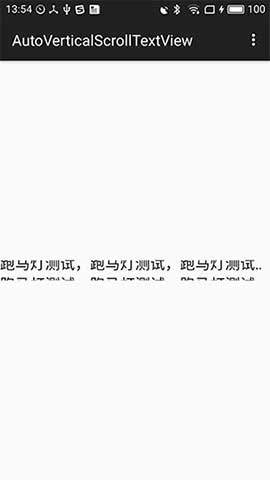
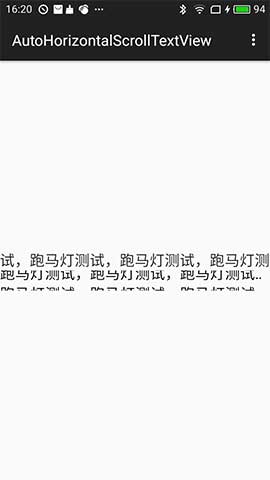
无

diff --git a/App/src/main/java/com/custom/view/activity/view/AutoScrollTextViewActivity.java b/App/src/main/java/com/custom/view/activity/view/AutoScrollTextViewActivity.java
@@ -7,30 +7,35 @@ import android.os.SystemClock;
 
 import com.custom.view.R;
 import com.custom.view.activity.base.BaseActivity;
-import com.custom.view.view.AutoVerticalScrollTextView;
-import com.custom.view.view.UnlockView;
+import com.custom.view.view.autoscrollview.AutoHorizontalScrollTextView;
+import com.custom.view.view.autoscrollview.AutoVerticalScrollTextView;
 
-public class AutoVerticalScrollTextViewActivity extends BaseActivity {
+public class AutoScrollTextViewActivity extends BaseActivity {
+
+    private String value = "跑马灯测试，跑马灯测试，跑马灯测试，跑马灯测试，跑马灯测试，跑马灯测试";
 
     private AutoVerticalScrollTextView autoVerticalScrollTextView;
 
-    private String[] value = {"跑马灯测试，跑马灯测试，跑马灯测试，跑马灯测试，跑马灯测试，跑马灯测试"};
+    private String[] values = {"跑马灯测试，跑马灯测试，跑马灯测试，跑马灯测试，跑马灯测试，跑马灯测试"};
 
     private boolean isRunning = true;
 
     @Override
     protected void onCreate(Bundle savedInstanceState) {
         super.onCreate(savedInstanceState);
-        setContentView(R.layout.activity_autoverticalscrolltextview);
+        setContentView(R.layout.activity_autoscrolltextview);
 
-        setTitle(AutoVerticalScrollTextView.class.getSimpleName());
+        setTitle(AutoHorizontalScrollTextView.class.getSimpleName());
 
         this.init();
     }
 
     private void init() {
+        AutoHorizontalScrollTextView autoHorizontalScrollTextView = (AutoHorizontalScrollTextView) findViewById(R.id.autoHorizontalScrollTextView);
+        autoHorizontalScrollTextView.setText(value);
+
         autoVerticalScrollTextView = (AutoVerticalScrollTextView) findViewById(R.id.autoVerticalScrollTextView);
-        autoVerticalScrollTextView.setText(value[0]);
+        autoVerticalScrollTextView.setText(values[0]);
 
         new Thread() {
             @Override
@@ -52,7 +57,7 @@ public class AutoVerticalScrollTextViewActivity extends BaseActivity {
             if (msg.what == 199) {
                 autoVerticalScrollTextView.next();
                 number++;
-                autoVerticalScrollTextView.setText(value[number % value.length]);
+                autoVerticalScrollTextView.setText(values[number % values.length]);
             }
 
         }

diff --git a/App/src/main/java/com/custom/view/activity/MainActivity.java b/App/src/main/java/com/custom/view/activity/MainActivity.java
@@ -8,8 +8,7 @@ import android.widget.ListView;
 
 import com.custom.view.R;
 import com.custom.view.activity.base.BaseActivity;
-import com.custom.view.activity.view.AutoHorizontalScrollTextViewActivity;
-import com.custom.view.activity.view.AutoVerticalScrollTextViewActivity;
+import com.custom.view.activity.view.AutoScrollTextViewActivity;
 import com.custom.view.activity.view.BadgeViewActivity;
 import com.custom.view.activity.view.BlurringViewActivity;
 import com.custom.view.activity.view.CircleImageViewActivity;
@@ -22,7 +21,6 @@ import com.custom.view.activity.view.StarLevelViewActivity;
 import com.custom.view.activity.view.TimerViewActivity;
 import com.custom.view.activity.view.UnlockViewActivity;
 import com.custom.view.activity.view.WaveViewActivity;
-import com.custom.view.view.radarview.RadarView;
 
 public class MainActivity extends BaseActivity {
 
@@ -36,8 +34,7 @@ public class MainActivity extends BaseActivity {
             new CustomView(R.string.view_title_timerView, R.string.view_introduction_timerView, TimerViewActivity.class),
             new CustomView(R.string.view_title_flowRadioGroup, R.string.view_introduction_flowRadioGroup, FlowRadioGroupActivity.class),
             new CustomView(R.string.view_title_puzzleView, R.string.view_introduction_puzzleView, PuzzleViewActivity.class),
-            new CustomView(R.string.view_title_autoHorizontalScrollTextView, R.string.view_introduction_autoHorizontalScrollTextView, AutoHorizontalScrollTextViewActivity.class),
-            new CustomView(R.string.view_title_autoVerticalScrollTextView, R.string.view_introduction_autoVerticalScrollTextView, AutoVerticalScrollTextViewActivity.class),
+            new CustomView(R.string.view_title_autoHorizontalScrollTextView, R.string.view_introduction_autoHorizontalScrollTextView, AutoScrollTextViewActivity.class),
             new CustomView(R.string.view_title_waveView, R.string.view_introduction_waveView, WaveViewActivity.class),
             new CustomView(R.string.view_title_badgeView, R.string.view_introduction_badgeView, BadgeViewActivity.class),
             new CustomView(R.string.view_title_circleImageView, R.string.view_introduction_circleImageView, CircleImageViewActivity.class),

diff --git a/App/src/main/java/com/custom/view/activity/view/CountTimeProgressViewActivity.java b/App/src/main/java/com/custom/view/activity/view/CountTimeProgressViewActivity.java
@@ -12,7 +12,6 @@ import android.widget.Toast;
 
 import com.custom.view.R;
 import com.custom.view.activity.base.BaseActivity;
-import com.custom.view.view.AutoHorizontalScrollTextView;
 import com.custom.view.view.CountTimeProgressView;
 import com.kyleduo.switchbutton.SwitchButton;
 import com.larswerkman.lobsterpicker.OnColorListener;

diff --git a/App/src/main/java/com/custom/view/activity/view/CircleImageViewActivity.java b/App/src/main/java/com/custom/view/activity/view/CircleImageViewActivity.java
@@ -4,7 +4,6 @@ import android.os.Bundle;
 
 import com.custom.view.R;
 import com.custom.view.activity.base.BaseActivity;
-import com.custom.view.view.AutoHorizontalScrollTextView;
 import com.custom.view.view.CircleImageView;
 
 public class CircleImageViewActivity extends BaseActivity {

diff --git a/App/src/main/java/com/custom/view/activity/view/BlurringViewActivity.java b/App/src/main/java/com/custom/view/activity/view/BlurringViewActivity.java
@@ -11,7 +11,6 @@ import android.widget.ImageView;
 
 import com.custom.view.R;
 import com.custom.view.activity.base.BaseActivity;
-import com.custom.view.view.AutoHorizontalScrollTextView;
 import com.custom.view.view.BlurringView;
 
 import java.util.Random;

diff --git a/App/src/main/java/com/custom/view/view/autoscrollview/AutoVerticalScrollTextView.java b/App/src/main/java/com/custom/view/view/autoscrollview/AutoVerticalScrollTextView.java
@@ -1,4 +1,4 @@
-package com.custom.view.view;
+package com.custom.view.view.autoscrollview;
 
 import android.content.Context;
 import android.graphics.Camera;

diff --git a/App/src/main/java/com/custom/view/view/autoscrollview/AutoHorizontalScrollTextView.java b/App/src/main/java/com/custom/view/view/autoscrollview/AutoHorizontalScrollTextView.java
@@ -1,4 +1,4 @@
-package com.custom.view.view;
+package com.custom.view.view.autoscrollview;
 
 import android.content.Context;
 import android.text.TextUtils;
